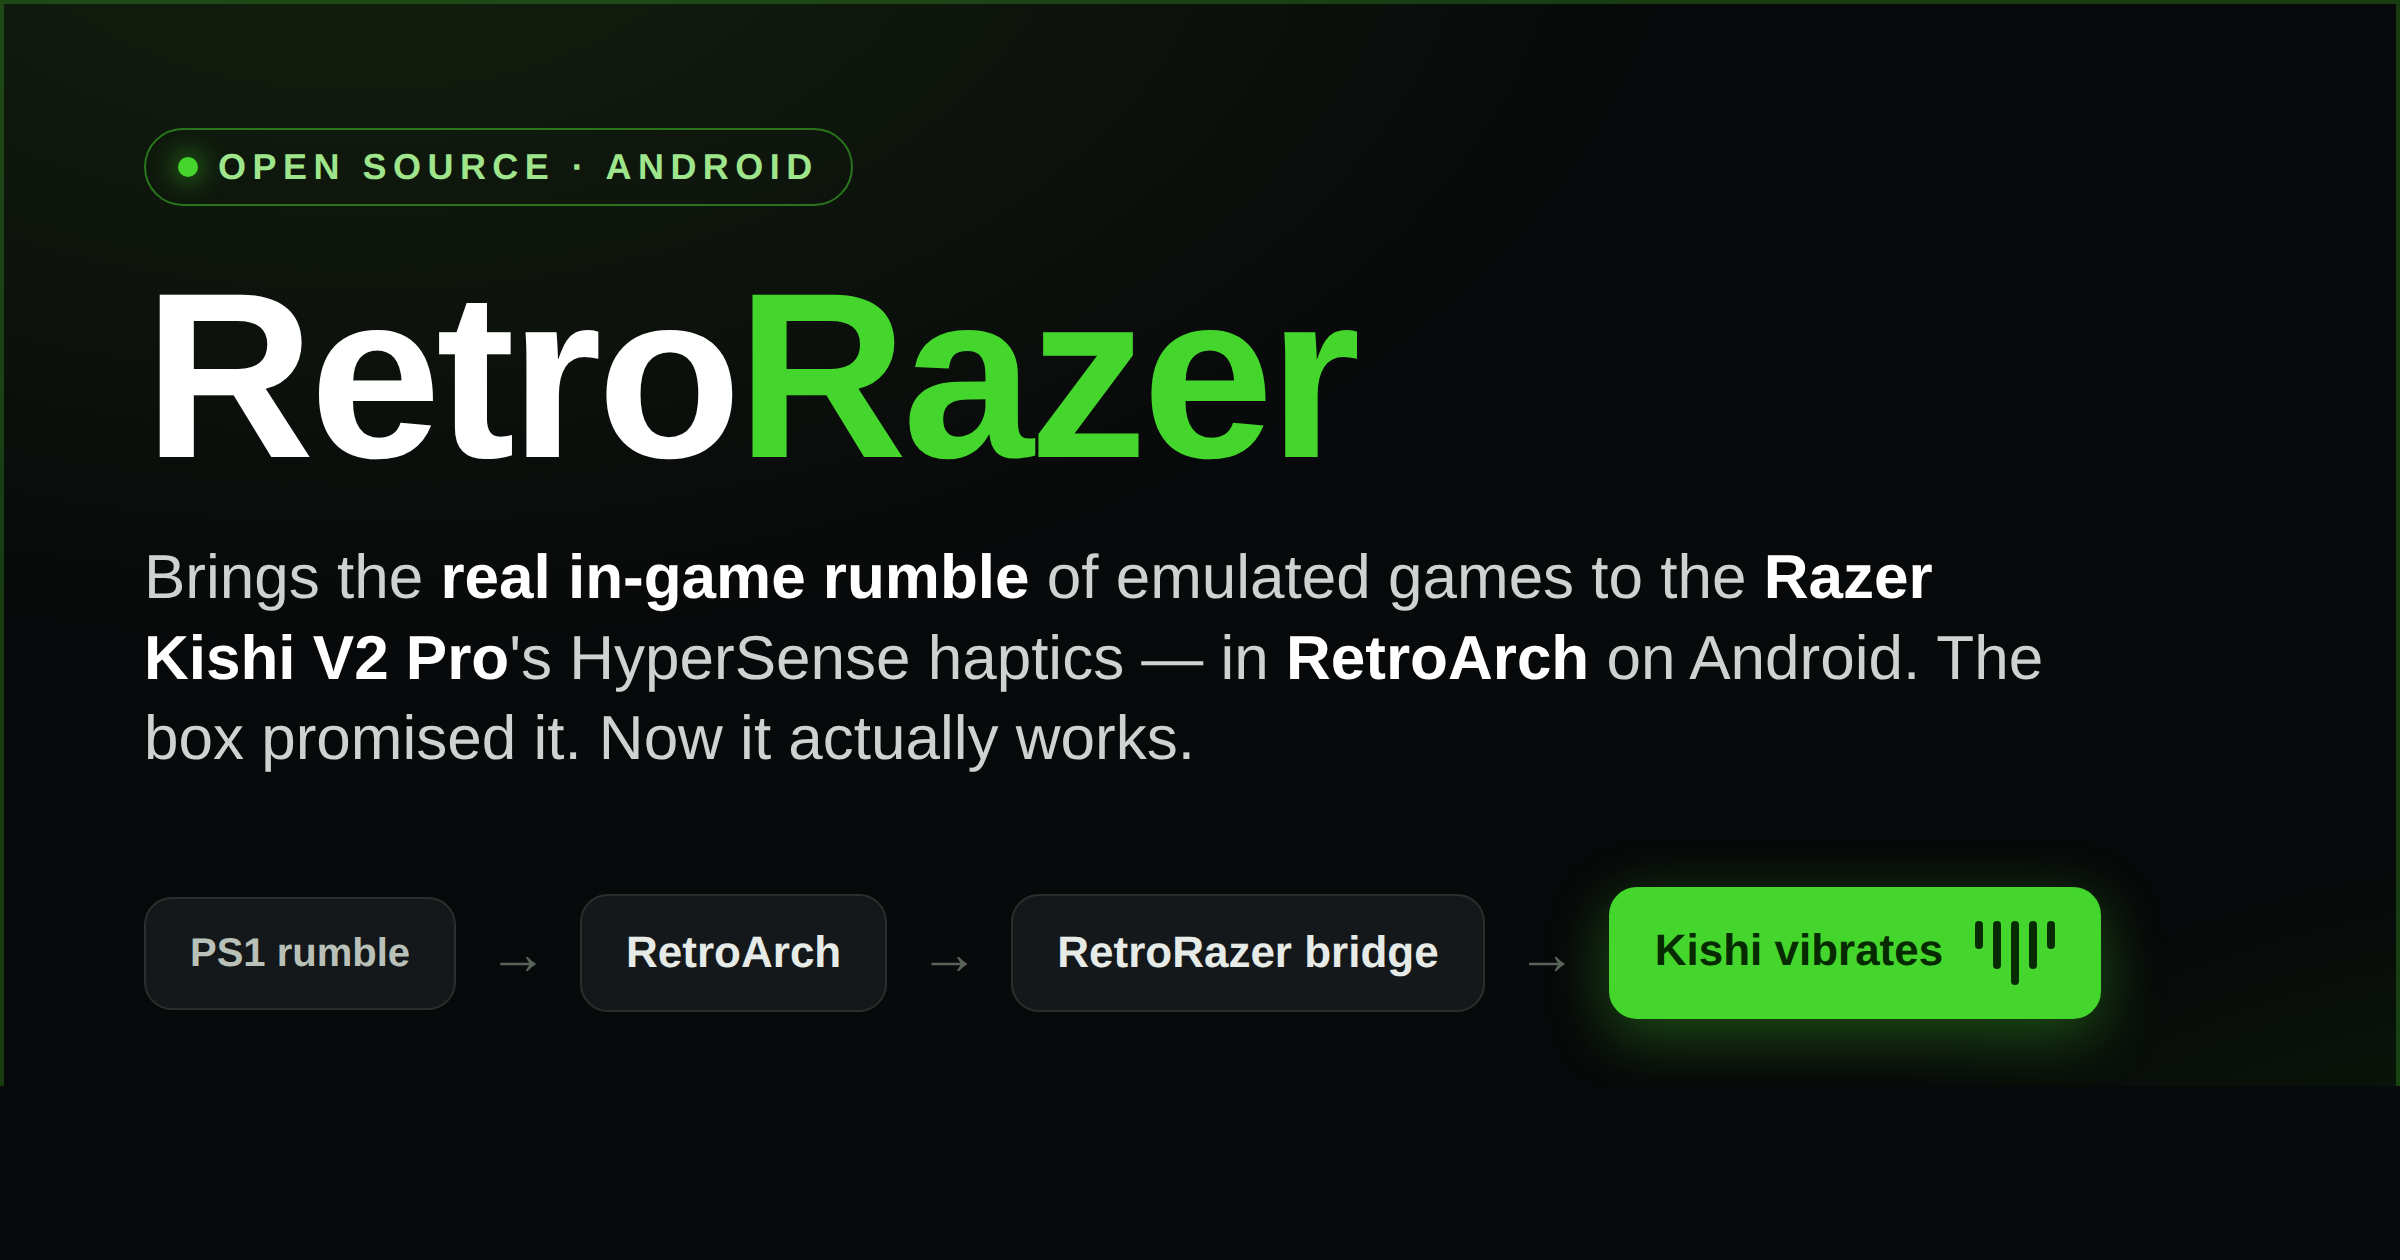
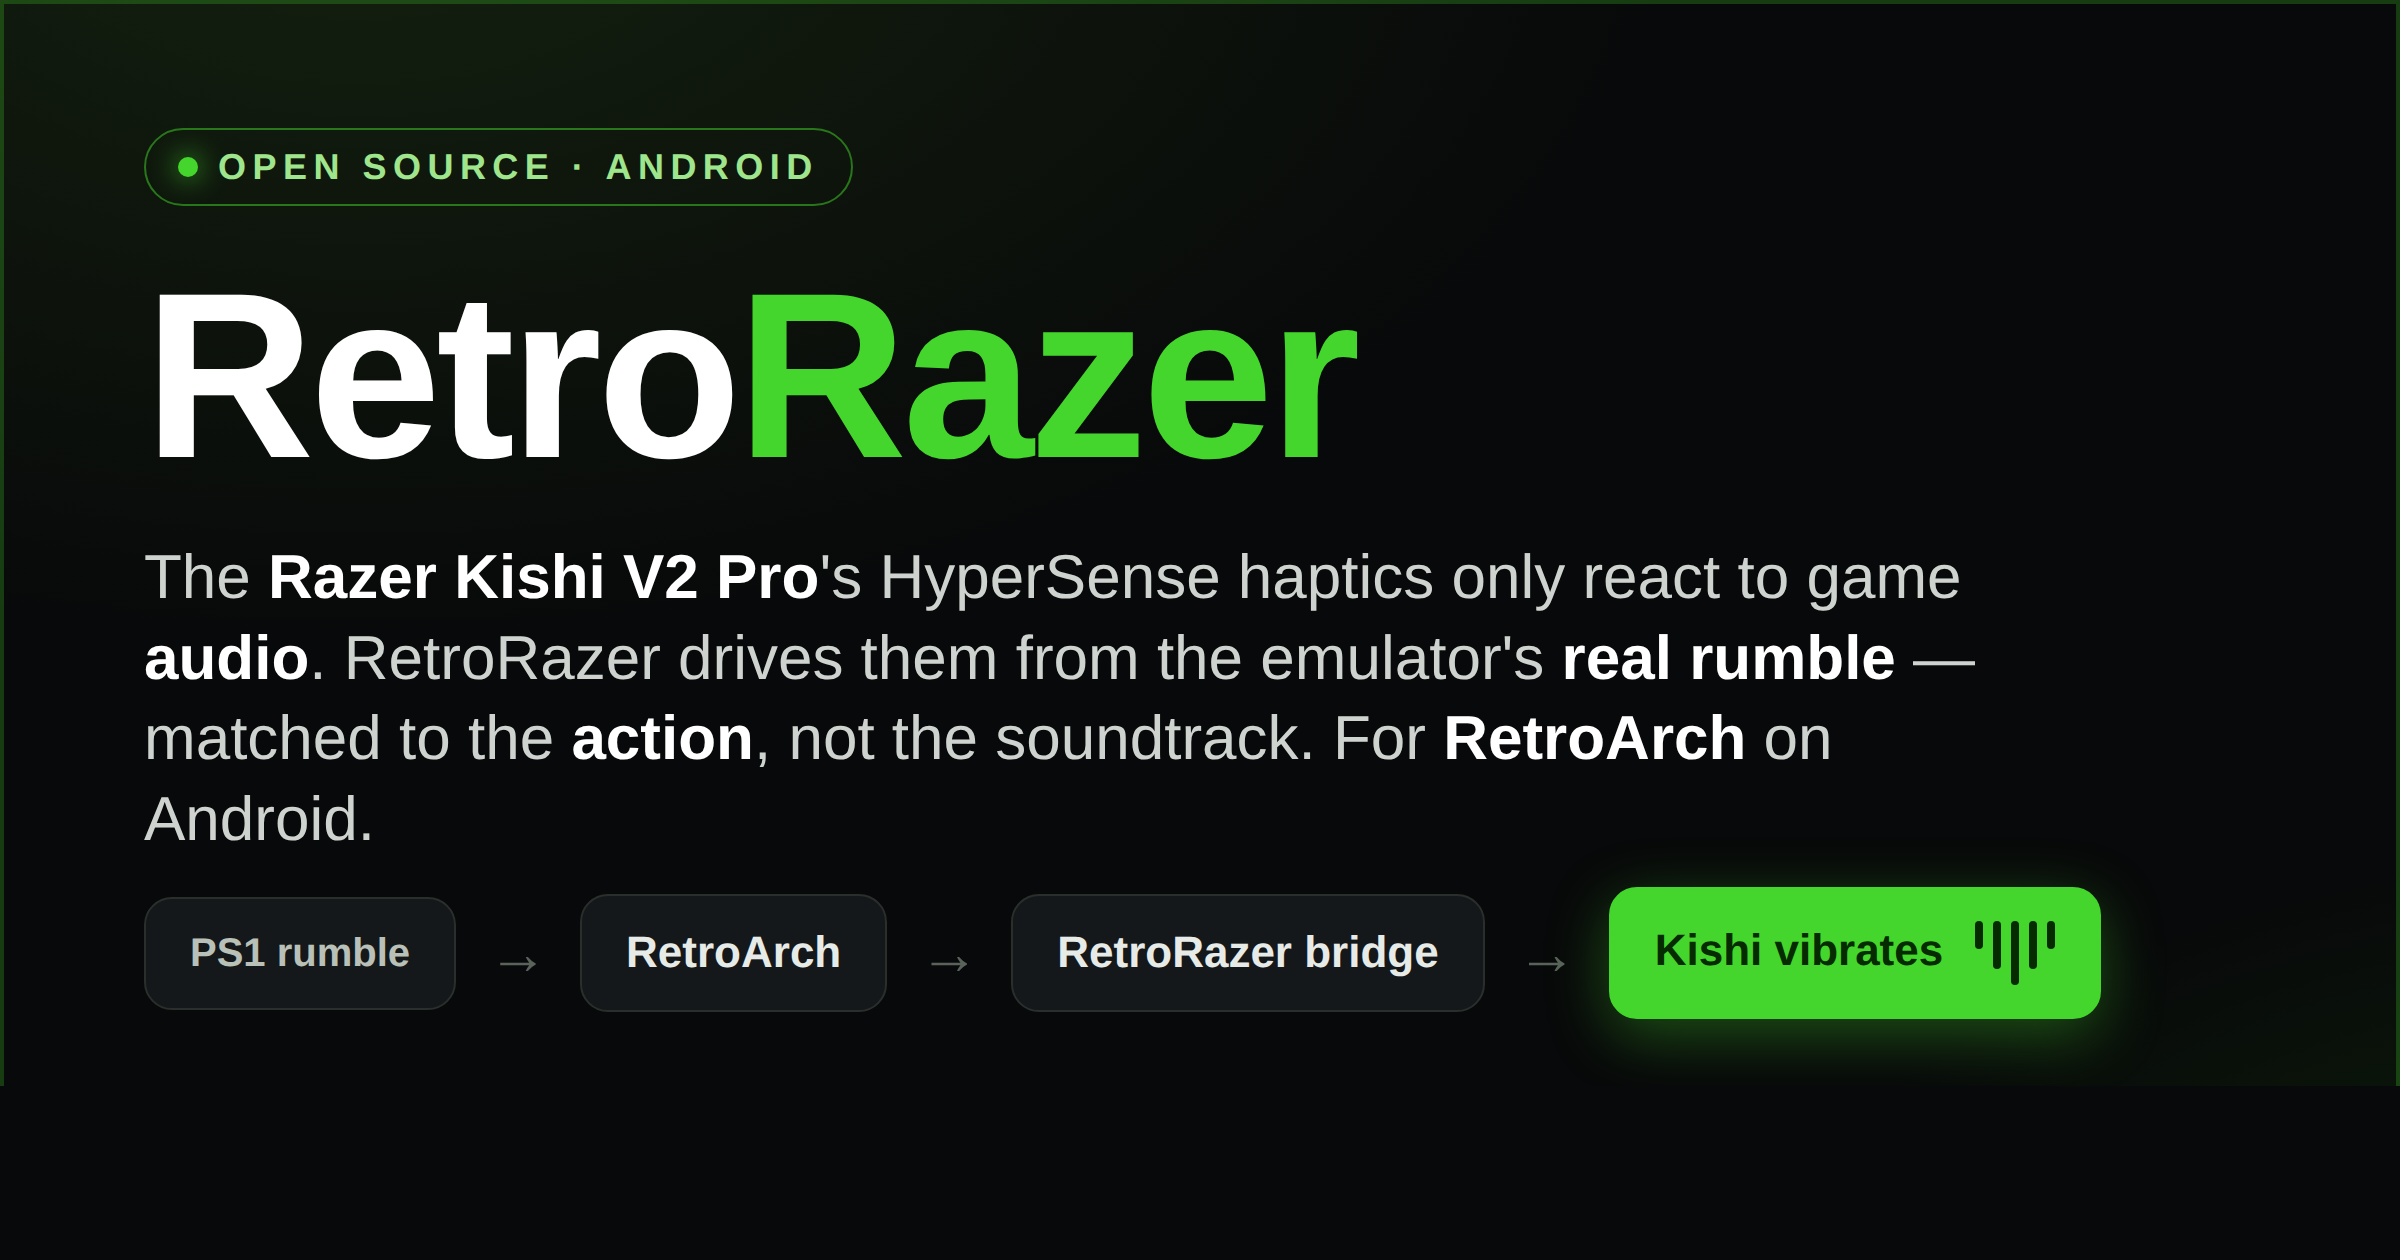
docs: corregir el mensaje — precisión sobre la háptica del Kishi
La háptica HyperSense del Kishi V2 Pro es por AUDIO (no lee el rumble del juego ni
la API de vibración; confirmado por reseñas). Se elimina la afirmación inexacta de
que "la caja prometía rumble directo" y se reposiciona con honestidad: RetroRazer
va MÁS ALLÁ del audio-háptica, moviendo los motores con el rumble REAL del juego.

- Imagen hero regenerada con el nuevo mensaje.
- Intro de README EN/ES/JA reescrita en consecuencia.

Claude-Session: https://claude.ai/code/session_01DAKk7Ljqtsobj4HXNmFJ6F

Changed region(s): [[0.0625, 0.4333, 0.8438, 0.681]]

diff --git a/README.ja.md b/README.ja.md
@@ -5,11 +5,12 @@
 
 # RetroRazer
 
-**Android の RetroArch で、Razer Kishi V2 Pro に本物のゲーム内ランブルを。**
+**Android の RetroArch で、ゲーム本来のランブルを Razer Kishi V2 Pro へ。**
 
-エミュレートされたゲーム（PlayStation 1、GBA など）の実際のランブル命令を、
-**Razer Kishi V2 Pro** の HyperSense 触覚モーターの振動へと変換します。これは
-コントローラーの箱が約束しているのに、RetroArch 単体では実現できなかった機能です。
+Kishi V2 Pro の HyperSense 触覚はゲームの**音声**にしか反応せず、ゲーム本来の
+ランブルには反応しません。RetroRazer はエミュレーター（PlayStation 1、GBA など）
+の**実際のランブル命令**をモーターに送り込み、サウンドトラックではなく*アクション*
+に合わせて振動させます。
 
 > ステータス: **実機で動作確認済み**（Razer Kishi V2 Pro、RetroArch 1.20.0
 > aarch64）。ゲームのランブルを忠実に再現し、ゲーム音声とはきれいに分離されます。

diff --git a/README.es.md b/README.es.md
@@ -5,12 +5,12 @@
 
 # RetroRazer
 
-**Rumble real de los juegos para el Razer Kishi V2 Pro en RetroArch (Android).**
+**Rumble real, guiado por el juego, para el Razer Kishi V2 Pro en RetroArch (Android).**
 
-Convierte los comandos de vibración reales de los juegos emulados (PlayStation 1,
-GBA y más) en vibración de los motores hápticos **HyperSense** del **Razer Kishi
-V2 Pro** — algo que promete la caja del control pero que RetroArch nunca lograba
-por sí solo.
+La háptica HyperSense del Kishi V2 Pro solo reacciona al **audio** del juego, no a
+su rumble real. RetroRazer alimenta los motores con el **comando de rumble real**
+del emulador (PlayStation 1, GBA y más), para que el control vibre con la *acción*,
+no con la banda sonora.
 
 > Estado: **funcionando y validado en hardware real** (Razer Kishi V2 Pro,
 > RetroArch 1.20.0 aarch64). Reproduce fielmente el rumble del juego, separado y

diff --git a/README.md b/README.md
@@ -5,11 +5,12 @@
 
 # RetroRazer
 
-**Real in-game rumble for the Razer Kishi V2 Pro in RetroArch on Android.**
+**Real, game-driven rumble for the Razer Kishi V2 Pro in RetroArch on Android.**
 
-Turns the actual rumble commands of emulated games (PlayStation 1, GBA, and more)
-into vibration on the **Razer Kishi V2 Pro**'s HyperSense haptic motors — something
-the controller's box promises but that RetroArch never delivered on its own.
+The Kishi V2 Pro's HyperSense haptics only react to the game's **audio** — not its
+actual rumble. RetroRazer feeds the motors the **real rumble command** from the
+emulator (PlayStation 1, GBA, and more), so the controller vibrates with the
+*action*, not the soundtrack.
 
 > Status: **working and validated on real hardware** (Razer Kishi V2 Pro, RetroArch
 > 1.20.0 aarch64). It faithfully reproduces the game's rumble, cleanly separated
